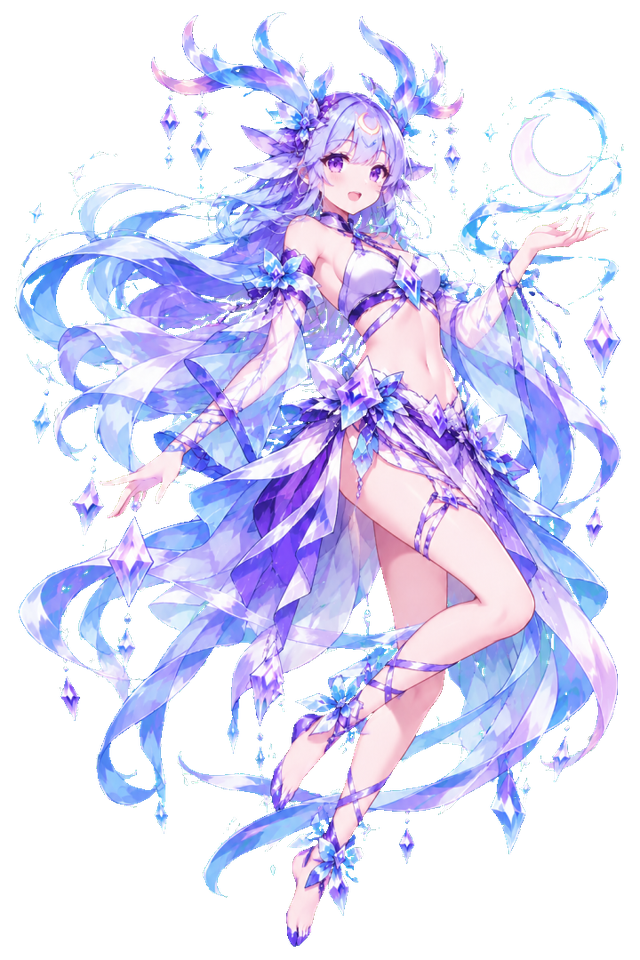
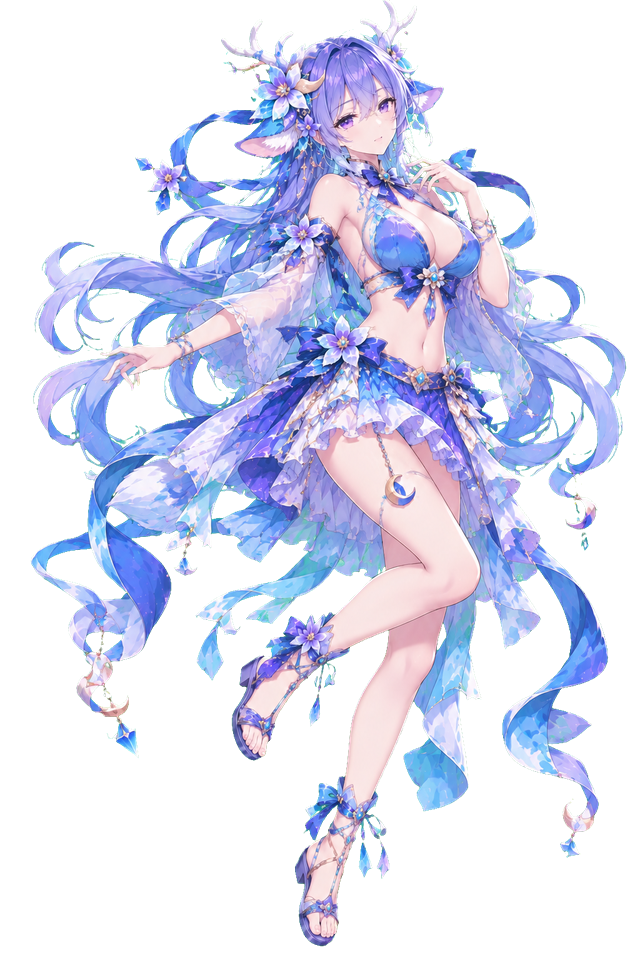
守脉灵/月华灵鹿 觉醒+真灵新立绘替换；详情页新增三形态立绘切换页签

diff --git a/assets/scripts/ui/pages/Detail.ts b/assets/scripts/ui/pages/Detail.ts
@@ -9,7 +9,7 @@ import { doStarUp, doEvolve, getProg } from '../../logic/Gacha';
 import { STAR_COST } from '../../logic/GameConfig';
 import { makeLabel, makeButton, makePanel, makeSpirit, makeSpiritStage, COLORS } from '../widgets';
 
-export function buildDetail(root: Node, gm: GameManager, id: string): void {
+export function buildDetail(root: Node, gm: GameManager, id: string, previewEvo?: number): void {
   root.removeAllChildren();
   const s = gm.state;
   const sp = SPIRIT_BY_ID[id];
@@ -20,6 +20,7 @@ export function buildDetail(root: Node, gm: GameManager, id: string): void {
   const prog = getProg(s, id);
   const st = spiritStats(sp, prog);
   const owned = (s.collection[id] || 0) > 0;
+  const viewEvo = previewEvo ?? prog.evo; // 当前预览的形态（进页默认展示实际形态）
 
   const title = makeLabel(root, sp.name, { fontSize: 40, color: RARITY_COLOR[sp.rarity] });
   title.setPosition(0, 630, 0);
@@ -31,12 +32,16 @@ export function buildDetail(root: Node, gm: GameManager, id: string): void {
   // 立绘纸舞台（铁律：深底不放裸立绘）：宣纸底 + 稀有度主题色渐变衬
   // 大立绘版式：竖向 400×560 舞台，立绘外框 360×520（2:3 竖版立绘可铺满高度）
   const stage = makeSpiritStage(root, 400, 560, RARITY_COLOR[sp.rarity]);
-  stage.setPosition(0, 270, 0);
-  makeSpirit(stage, spiritResPath(sp, prog.evo), 360, sp.icon, 520).setPosition(0, 0, 0);
+  stage.setPosition(0, 280, 0);
+  makeSpirit(stage, spiritResPath(sp, viewEvo), 360, sp.icon, 520).setPosition(0, 0, 0);
 
-  // 当前形态展示（初生/觉醒/真灵，由升星/进化推进）
-  const stageInfo = makeLabel(root, `当前形态：${EVOLUTION.stages[prog.evo]}`, { fontSize: 22, color: COLORS.sub });
-  stageInfo.setPosition(0, -52, 0);
+  // 三形态立绘切换页签：初生 / 觉醒 / 真灵，点谁看谁的立绘
+  EVOLUTION.stages.forEach((name, e) => {
+    makeButton(root, name, () => {
+      if (e !== viewEvo) buildDetail(root, gm, id, e);
+    }, { w: 118, h: 44, bg: e === viewEvo ? COLORS.btnPrimary : COLORS.btn, fontSize: 22 })
+      .setPosition(-126 + e * 126, -50, 0);
+  });
 
   const stats = makeLabel(
     root,

diff --git a/assets/scripts/logic/GameConfig.ts b/assets/scripts/logic/GameConfig.ts
@@ -107,7 +107,7 @@ export const RARITY_LABEL: { N: string; R: string; SR: string; SSR: string } = {
 };
 
 // 当前精灵立绘缓存版本：改图后 +1，强制资源重新加载（Cocos 用 resources 动态加载，靠查询参数破缓存）
-export const SPIRIT_VERSION = 26;
+export const SPIRIT_VERSION = 27; // 27: 守脉灵/月华灵鹿 觉醒+真灵 立绘更换
 
 // 全局养成加成重算：idleMult = 等级收益(1 + (level-1)*0.1) + 进化总阶数 * 每阶加成
 export function recalcIdleMult(state: {

diff --git a/tools/key_green.py b/tools/key_green.py
@@ -1,0 +1,32 @@
+# -*- coding: utf-8 -*-
+# 绿幕立绘抠像工具：绿幕 → 透明底，缩放到统一规格，输出到 assets/resources/spirits/。
+# 用法: python tools/key_green.py <输入.png> <输出名.png> [宽 高]
+# 规则: g 明显高于 max(r,b) 判为绿幕；边缘半透明过渡；超绿像素做 despill 去绿边。
+import sys
+import numpy as np
+from PIL import Image
+
+def key_green(src, dst, w=640, h=960):
+    im = Image.open(src).convert('RGB')
+    a = np.asarray(im).astype(np.float32)
+    r, g, b = a[..., 0], a[..., 1], a[..., 2]
+    dom = g - np.maximum(r, b)  # 绿色支配度
+    # alpha 渐变：dom<=10 全不透明，>=70 全透明，中间线性过渡（保留发丝/薄纱边缘）
+    alpha = np.clip((70.0 - dom) / 60.0, 0.0, 1.0)
+    # despill：绿色超过红蓝均值的部分压回，去绿边
+    avg = (r + b) * 0.5
+    g2 = np.minimum(g, np.maximum(avg, g - (dom - 10) * 0.5))
+    out = np.stack([r, g2, b, alpha * 255.0], axis=-1).astype(np.uint8)
+    img = Image.fromarray(out, 'RGBA')
+    img = img.resize((w, h), Image.LANCZOS)
+    # 缩放后再清理：边缘残留的低alpha噪点归零，避免白边
+    arr = np.asarray(img).astype(np.float32)
+    arr[..., 3] = np.where(arr[..., 3] < 12, 0, arr[..., 3])
+    Image.fromarray(arr.astype(np.uint8), 'RGBA').save(dst, optimize=True)
+    print(f'{src} -> {dst} {w}x{h} ok')
+
+if __name__ == '__main__':
+    src, dst = sys.argv[1], sys.argv[2]
+    w = int(sys.argv[3]) if len(sys.argv) > 3 else 640
+    h = int(sys.argv[4]) if len(sys.argv) > 4 else 960
+    key_green(src, dst, w, h)
